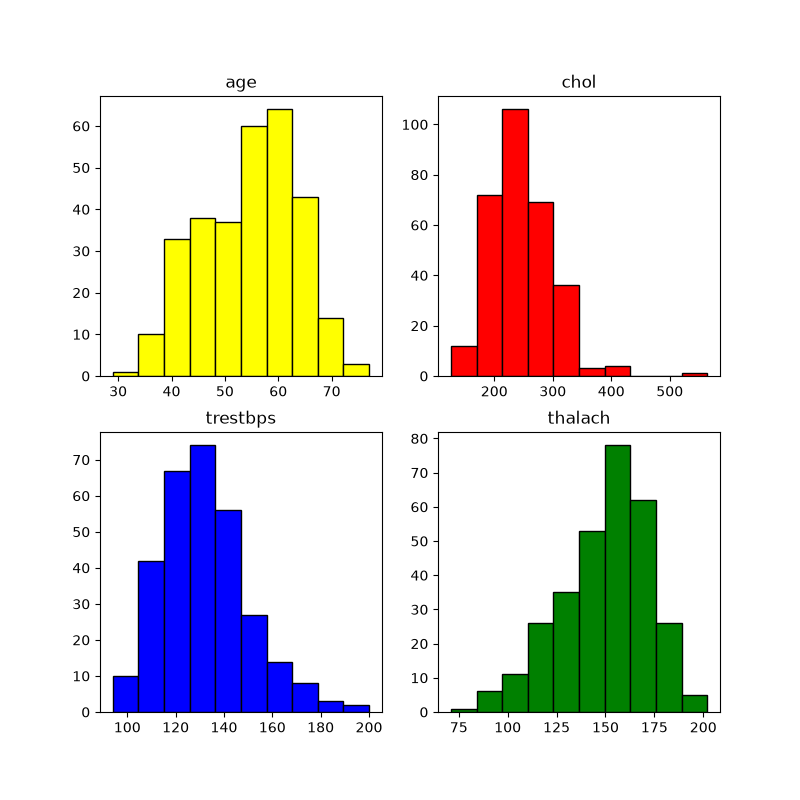
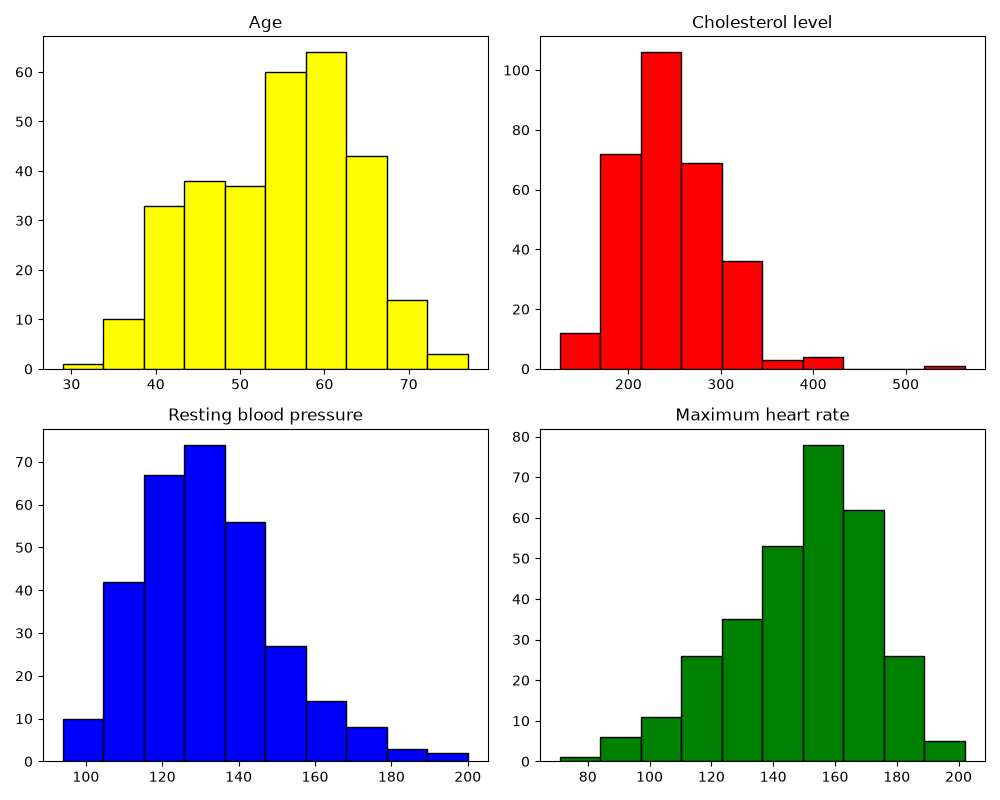
PW3 completed

diff --git a/PW3/heart_diseases.py b/PW3/heart_diseases.py
@@ -1,38 +1,159 @@
 import pandas as pd
 import matplotlib.pyplot as plt
+import scipy.stats as st
+import numpy as np
 
-df=pd.read_csv("heart.csv")
+# Part 1
+df = pd.read_csv("heart.csv")
+
 print(df.shape)
 print(df.head())
 
-age=df["age"]
-chol=df["chol"]
-trestbps=df["trestbps"]
-thalach=df["thalach"]
+age = df["age"]
+chol = df["chol"]
+trestbps = df["trestbps"]
+thalach = df["thalach"]
 
-fig, axes=plt.subplots(nrows=2, ncols=2, figsize=(8,8))
-axes[0,0].hist(age,color="yellow",edgecolor="black")
-axes[0,0].set_title("age")
-axes[0,1].hist(chol,color="red",edgecolor="black")
-axes[0,1].set_title("chol")
-axes[1,0].hist(trestbps,color="blue",edgecolor="black")
-axes[1,0].set_title("trestbps")
-axes[1,1].hist(thalach,color="green",edgecolor="black")
-axes[1,1].set_title("thalach")
+
+# Part 2
+fig, axes = plt.subplots(nrows=2, ncols=2, figsize=(10, 8))
+
+axes[0,0].hist(age, color="yellow", edgecolor="black")
+axes[0,1].hist(chol, color="red", edgecolor="black")
+axes[1,0].hist(trestbps, color="blue", edgecolor="black")
+axes[1,1].hist(thalach, color="green", edgecolor="black")
+
+axes[0,0].set_title("Age")
+axes[0,1].set_title("Cholesterol level")
+axes[1,0].set_title("Resting blood pressure")
+axes[1,1].set_title("Maximum heart rate")
+
+plt.tight_layout()
 plt.savefig("Health_graphs.png")
 
-import scipy.stats as st
-fig2, axes2=plt.subplots(nrows=2, ncols=2, figsize=(12,12))
-st.probplot(age, dist="norm", plot=axes2[0,0])
-axes2[0,0].set_title("age")
 
-st.probplot(chol, dist="norm", plot=axes2[0,1])
-axes2[0,1].set_title("chol")
+# Part 3
+cols = ["age", "chol", "trestbps", "thalach"]
 
-st.probplot(trestbps, dist="norm", plot=axes2[1,0])
-axes2[1,0].set_title("trestbps")
+for c in cols:
+    print(f"{c} skewness: {st.skew(df[c])}")
 
-st.probplot(thalach, dist="norm", plot=axes2[1,1])
-axes2[1,1].set_title("thalach")
+fig2, axes2 = plt.subplots(nrows=2, ncols=2, figsize=(10, 8))
+
+st.probplot(age, dist="norm", plot=axes2[0, 0])
+st.probplot(chol, dist="norm", plot=axes2[0, 1])
+st.probplot(trestbps, dist="norm", plot=axes2[1, 0])
+st.probplot(thalach, dist="norm", plot=axes2[1, 1])
+
+axes2[0,0].set_title("Age")
+axes2[0,1].set_title("Cholesterol level")
+axes2[1,0].set_title("Resting blood pressure")
+axes2[1,1].set_title("Maximum heart rate")
+
+plt.tight_layout()
 plt.savefig("Distribution.png")
-plt.show()
+
+
+# Part 4
+thalach_healthy = list()
+thalach_ill = list()
+
+for i, t in enumerate(df["target"]):
+    if t == 0:
+        thalach_healthy.append(df["thalach"].iloc[i])
+    else:
+        thalach_ill.append(df["thalach"].iloc[i])
+
+result = st.mannwhitneyu(thalach_healthy, thalach_ill)
+
+if result.pvalue < 0.05:
+    print("The groups have significantly different distributions.")
+else:
+    print("There is no significant difference between the groups.")
+
+healthy_mean = np.mean(thalach_healthy)
+ill_mean = np.mean(thalach_ill)
+
+healthy_err = st.sem(thalach_healthy)
+ill_err = st.sem(thalach_ill)
+
+print("Healthy mean:", healthy_mean)
+print("Healthy standard error:", healthy_err)
+
+print("Ill mean:", ill_mean)
+print("Ill standard error:", ill_err)
+
+fig3, ax3 = plt.subplots(figsize=(6, 6))
+
+ax3.bar(
+    ["Healthy", "Ill"],
+    [healthy_mean, ill_mean],
+    yerr=[healthy_err, ill_err],
+    color=["yellow", "green"],
+    edgecolor="black",
+    capsize=5
+)
+
+ax3.set_ylabel("Maximum heart rate")
+ax3.set_title("Mean maximum heart rate")
+
+plt.tight_layout()
+plt.savefig("Heart_rate_comparison.png")
+
+
+# Part 5
+correlation, p = st.pearsonr(age, thalach)
+
+print("Age and heart rate correlation:", correlation)
+if correlation < 0:
+    print("Age and maximum heart rate have a negative relationship.")
+elif correlation > 0:
+    print("Age and maximum heart rate have a positive relationship.")
+else:
+    print("There is no linear relationship.")
+
+fig4, ax4 = plt.subplots(figsize=(6, 6))
+ax4.scatter(age, thalach, color="blue", edgecolor="black")
+ax4.set_xlabel("Age")
+ax4.set_ylabel("Maximum heart rate")
+ax4.set_title("Age vs maximum heart rate")
+
+plt.tight_layout()
+plt.savefig("Age_Heart_rate.png")
+
+
+# Part 6
+df2 = pd.read_csv("chemicals_cancer.csv")
+
+print(df2.shape)
+print(df2.head())
+
+benzene = df2["benzene"]
+cadmium = df2["cadmium"]
+malignancy = df2["malignancy"]
+
+correlation_benzene, p_benzene = st.pearsonr(benzene, malignancy)
+correlation_cadmium, p_cadmium = st.pearsonr(cadmium, malignancy)
+
+print("Benzene correlation:", correlation_benzene)
+print("Cadmium correlation:", correlation_cadmium)
+
+if abs(correlation_benzene) > abs(correlation_cadmium):
+    print("Naive analysis: benzene appears more strongly associated with malignancy.")
+else:
+    print("Naive analysis: cadmium appears more strongly associated with malignancy.")
+
+
+# Part 7
+df_filtered = df2[(df2["pollution_index"] > 40) &(df2["pollution_index"] < 60)]
+
+benzene_filtered = df_filtered["benzene"]
+cadmium_filtered = df_filtered["cadmium"]
+malignancy_filtered = df_filtered["malignancy"]
+
+correlation_benzene_filtered, p_benzene_filtered = st.pearsonr(benzene_filtered, malignancy_filtered)
+correlation_cadmium_filtered, p_cadmium_filtered = st.pearsonr(cadmium_filtered, malignancy_filtered)
+
+print("Number of patients after filtering:", len(df_filtered))
+print("Benzene correlation after filtering:", correlation_benzene_filtered)
+print("Cadmium correlation after filtering:", correlation_cadmium_filtered)

diff --git a/README.md b/README.md
@@ -153,3 +153,129 @@ The acceleration is much noisier than the position because differentiation ampli
 - Age and thalach appear closest to a normal distribution based on the Q-Q plots.
 - Chol shows the clearest evidence of non-normality, while trestbps has some deviations.
 - These findings can help guide the choice of statistical methods in Session 2.
+
+
+## PW2 - Lab B: Optimization in Chemistry
+
+### What I built
+
+- Compared Gradient Descent, Newton’s method, and SLSQP on two functions.
+- Fitted a first-order reaction rate constant using kinetics.csv.
+- Calculated chemical equilibrium using Newton’s method and SLSQP.
+- Created equilibrium.png showing H2, I2, HI, and the equilibrium point.
+- Found the titration equivalence point using np.gradient and np.argmax.
+- Created kinetics.png and titration.png.
+
+### Results
+
+- Reaction rate constant: approximately 0.25.
+- Equilibrium constant: K = 15.6.
+- Equilibrium extent: x ≈ 0.664.
+- H2 at equilibrium: 0.336 mol.
+- I2 at equilibrium: 0.336 mol.
+- HI at equilibrium: 1.328 mol.
+- Titration equivalence point: approximately 50 mL.
+
+### Observations
+
+- Different optimization methods can give different results depending on the starting point and learning rate.
+- The H2 and I2 lines overlap because their initial amounts are equal.
+- The equilibrium point is determined by the equilibrium constant, not by the intersection of the plotted lines.
+- Differentiation helps identify the steepest part of the titration curve.
+
+### Conclusion
+
+- Optimization can minimize functions and fit experimental data.
+- Newton’s method and SLSQP can both be used to find chemical equilibrium.
+- Numerical differentiation can identify the titration equivalence point.
+- The results demonstrate how numerical methods are applied to chemistry problems.
+
+## PW3 - Part 1: Statistical Analysis of Heart Disease Data
+
+### What I built
+
+- Loaded the heart disease dataset using pandas.
+- Printed the dataset shape and the first rows.
+- Selected four continuous variables: age, chol, trestbps, and thalach.
+- Created Health_graphs.png to visualise the distributions using histograms.
+- Created Distribution.png to investigate normality using Q-Q plots.
+- Calculated skewness for the four continuous variables.
+- Separated maximum heart rate (thalach) into healthy and ill groups using target.
+- Compared the two groups using the Mann-Whitney U test.
+- Calculated the mean and standard error of maximum heart rate for each group.
+- Created Heart_rate_comparison.png to compare the group means and their uncertainties.
+- Investigated the relationship between age and maximum heart rate using Pearson correlation.
+- Created Age_Heart_rate.png to visualise the relationship.
+- Calculated the proportions of the two target categories.
+
+### Results
+
+- Age: the distribution was investigated using a histogram, skewness, and a Q-Q plot.
+- Chol (cholesterol): the distribution showed deviations from normality, especially in the upper tail.
+- Trestbps (resting blood pressure): the distribution showed some deviations from the normal distribution.
+- Thalach (maximum heart rate): the distribution was investigated using a histogram, skewness, and a Q-Q plot.
+- Healthy mean maximum heart rate: approximately 158.38.
+- Ill mean maximum heart rate: approximately 139.26.
+- Mann-Whitney U test p-value: approximately 1.86e-13.
+- Healthy standard error: approximately 1.50.
+- Ill standard error: approximately 1.92.
+
+### Observations
+
+- Histograms show the spread and shape of the distributions.
+- Q-Q plots help identify deviations from a normal distribution.
+- Skewness indicates the direction and degree of asymmetry.
+- The mean maximum heart rate is higher in the healthy group than in the ill group.
+- The Mann-Whitney U test indicates a statistically significant difference between the two groups (p < 0.05).
+- The error bars show the uncertainty in the estimated group means.
+- Pearson correlation measures the strength and direction of the linear relationship between age and maximum heart rate.
+- The target proportions show how balanced the healthy and ill groups are.
+
+### Conclusion
+
+- Histograms, skewness, and Q-Q plots were used to investigate the distributions of four continuous variables.
+- The Mann-Whitney U test was used to compare maximum heart rate between healthy and ill patients.
+- The results indicate a statistically significant difference between the groups.
+- The healthy group has a higher mean maximum heart rate than the ill group.
+- Pearson correlation was used to investigate the relationship between age and maximum heart rate.
+- The results help demonstrate how statistical methods can be applied to real medical data.
+
+
+## PW3 - Part 2: Chemical-Exposure Mystery
+
+### What I built
+
+- Loaded the synthetic chemical-exposure dataset using pandas.
+- Printed the dataset shape and the first rows.
+- Selected benzene, cadmium, malignancy, pollution_index, and age.
+- Calculated Pearson correlations between benzene and malignancy and between cadmium and malignancy.
+- Compared the two correlations to identify which chemical appeared more strongly associated with malignancy.
+- Filtered the dataset to include patients with a pollution index between 40 and 60.
+- Recalculated the correlations within the filtered dataset.
+- Compared the results before and after filtering to investigate the influence of a possible confounding variable.
+
+### Results
+
+- Number of patients in the filtered dataset: 199.
+- Benzene correlation before filtering: approximately 0.377.
+- Cadmium correlation before filtering: approximately 0.885.
+- Benzene correlation after filtering: approximately 0.709.
+- Cadmium correlation after filtering: approximately [insert your result].
+
+### Observations
+
+- Before filtering, cadmium showed a much stronger positive correlation with malignancy than benzene.
+- The initial analysis suggested that cadmium was the chemical most strongly associated with malignancy.
+- After restricting the pollution index to a narrower range, the correlations changed.
+- Benzene showed a stronger association with malignancy after filtering.
+- This change suggests that the pollution index may influence the observed relationships.
+- A correlation between two variables does not necessarily mean that one causes the other.
+- A third variable can influence both variables and create or change an observed association.
+
+### Conclusion
+
+- Pearson correlation was used to investigate the relationships between the chemical concentrations and malignancy.
+- The initial analysis suggested that cadmium was more strongly associated with malignancy.
+- Filtering by pollution index changed the observed correlations.
+- Comparing the two analyses demonstrates why possible confounding variables must be considered before drawing conclusions about causation.
+- The final conclusion about which chemical causes malignancy should be based on the results after accounting for the confounding variable and the structure of the synthetic dataset.
